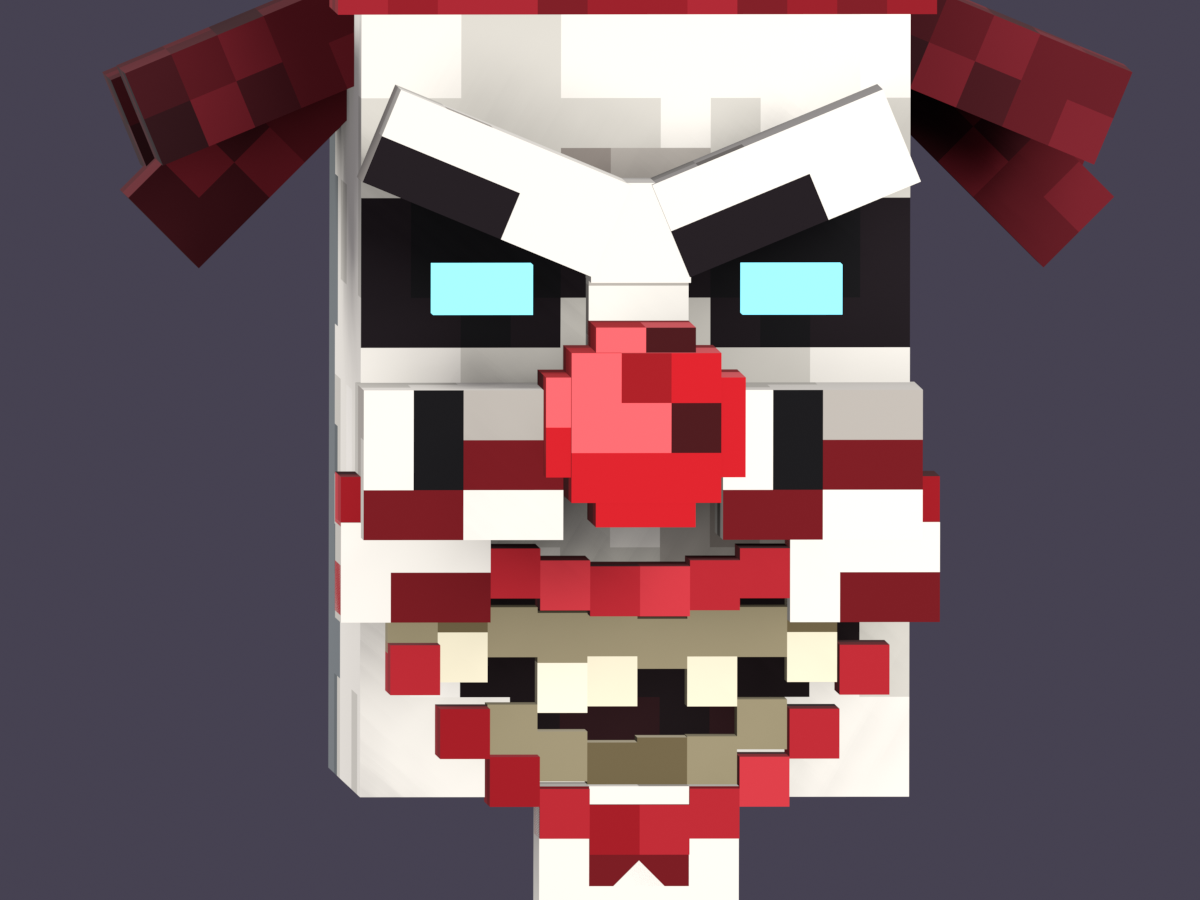
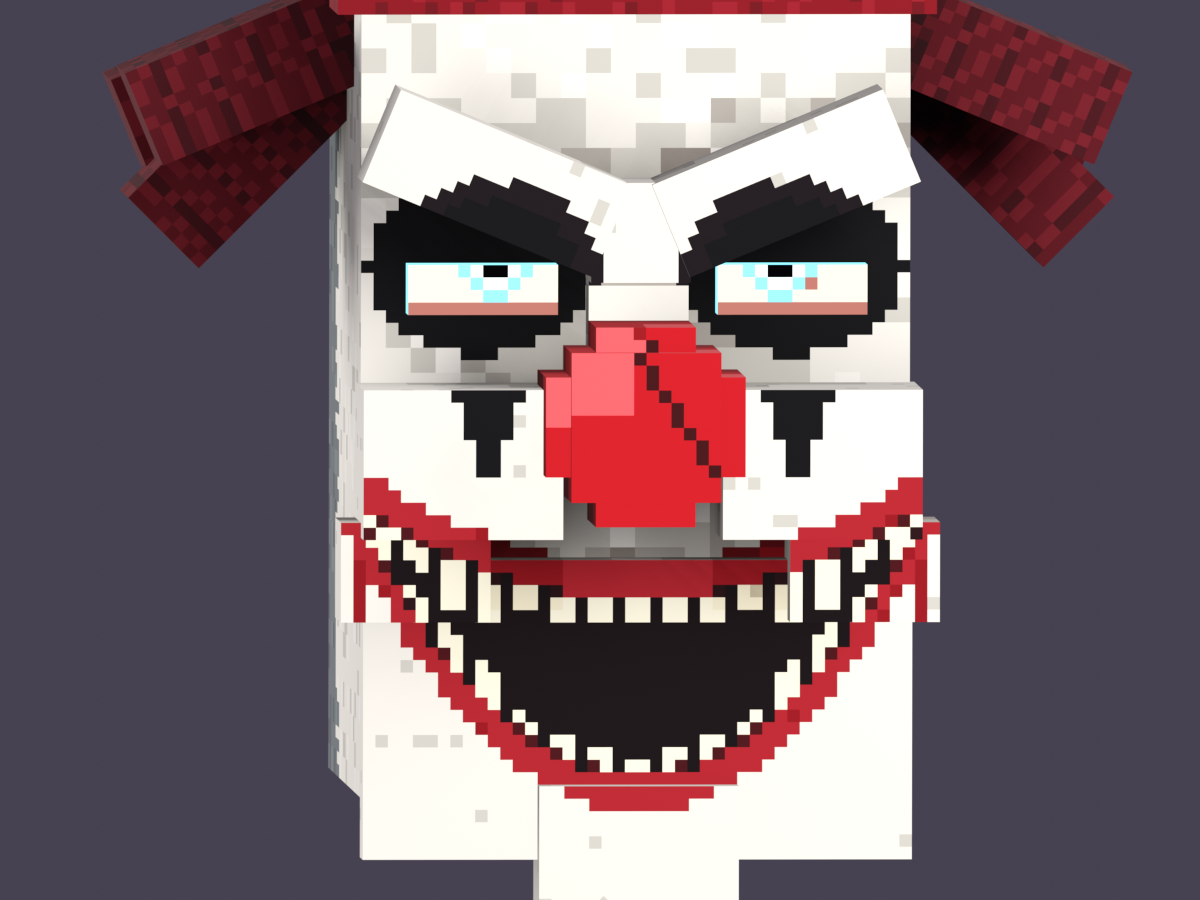
Mirrored Magus clown face take 2: the head textured at 4x resolution, the grin painted smooth (lips, pointed teeth, fangs) on a low muzzle instead of cube lips and teeth, illager eyes (white, cyan iris, dark pupil) full-bright in the black makeup

diff --git a/tools/art/bosses/magus_s5.py b/tools/art/bosses/magus_s5.py
@@ -64,7 +64,8 @@ RAMP = {
     "teeth": mk((110, 98, 70), (234, 226, 198), (252, 250, 236), 7),
     "rednose": mk((70, 6, 12), (196, 24, 36), (255, 140, 140), 7),
     "hair": mk((28, 4, 10), (96, 16, 28), (160, 50, 60), 7),
-    "mouth": [(18, 2, 6), (40, 6, 12)],                                          # the grin's line, the cracks
+    "mouth": [(18, 2, 6), (40, 6, 12)],
+    "sclera": [(180, 120, 110), (232, 226, 210)],                                          # the grin's line, the cracks
     "stain": [(96, 24, 30), (120, 40, 44)],
 }
 ZONE = {"black": ("black", 4), "white": ("white", 4), "crimson": ("crimson", 4), "gold": ("gold", 3),
@@ -76,8 +77,24 @@ GLOWING = s4.GLOWING
 DIAMOND_PARTS = ("coat_", "chest_", "ribs_", "upper_", "fore_", "thigh_", "shin_")
 
 
+def texel_points(cube, face, w, h):
+    """Like volley_crone_s5.texel_points, at the cube's own texel density (session 4: 4 per unit on his head)."""
+    d = s4.density(cube)
+    if d == 1:
+        return v5.texel_points(cube, face, w, h)
+    pts, n, tu, tv = v5.texel_points(cube, face, w // d, h // d)
+    au, su, av, sv = v5.FACE_UV[face]
+    lo, hi = np.array(cube.frm), np.array(cube.to)
+    us, vs = np.meshgrid((np.arange(w) + 0.5) / d, (np.arange(h) + 0.5) / d)
+    full = np.zeros((h, w, 3))
+    full[...] = pts[0, 0]
+    full[..., au] = lo[au] + us if su > 0 else hi[au] - us
+    full[..., av] = lo[av] + vs if sv > 0 else hi[av] - vs
+    return full, n, tu, tv
+
+
 def world_points(cube, face, w, h):
-    pts, n, _, _ = v5.texel_points(cube, face, w, h)
+    pts, n, _, _ = texel_points(cube, face, w, h)
     m = v5.cube_matrix(cube)
     flat = np.c_[pts.reshape(-1, 3), np.ones(w * h)]
     world = (m @ flat.T).T[:, :3].reshape(h, w, 3)
@@ -325,50 +342,82 @@ def near_socket(px, py):
     return best
 
 
+def grin(px, py):
+    """What the painted grin is at a world point (take 2, at the head's resolution): 'lip', 'tooth', 'gum', 'mouth' or
+    None. Thick lips round an open mouth stretched up into his cheeks; pointed teeth in rows along both lips, gaps
+    between them, longer fangs at the corners; the dark mouth behind."""
+    c, half = s2.mouth_curve(px)
+    if abs(px) > 6.3:
+        return None
+    up, low = c + half, c - half
+    if up <= py < up + 0.7 or low - 0.7 < py <= low:
+        return "lip"
+    if not (low < py < up):
+        return None
+    k = round(px / 0.75)
+    tooth_x = abs(px - k * 0.75)                    # 0 at a tooth's middle, 0.375 at the gap
+    fang = abs(abs(k * 0.75) - 3.4) < 0.4
+    reach = (1.5 if fang else 0.85) * (1 - tooth_x / 0.4)          # pointed: longest at the middle
+    if tooth_x < 0.32 and (up - py < reach or py - low < reach * 0.75):
+        return "gum" if (up - py < 0.12 or py - low < 0.12) else "tooth"
+    return "mouth"
+
+
+def near_socket(px, py):
+    """0 outside, else how deep into the dark round an eye (1 at its middle)."""
+    best = 0.0
+    for sx in (-1, 1):
+        r = math.hypot((px - sx * 3.1) / 2.6, (py - (YH + 2.2)) / 2.0)
+        best = max(best, 1 - r)
+    return best
+
+
 def paint_clown_head(lv, over, world, seed):
-    """The head's own front, behind his sculpted face: white greasepaint, black in the deep sockets (smudged at their
-    edges), the dark red-black inside his mouth."""
+    """The head's own front, behind his sculpted face: white greasepaint, black round his eyes."""
     h, w = lv.shape
     for y in range(h):
         for x in range(w):
             px, py, pz = world[y, x]
-            if in_mouth(px, py):
-                over.append((y, x, "mouth", 0 if noise(seed, x, y, 1) > 300 else 1))
-            elif near_socket(px, py) > 0:
-                d = near_socket(px, py)
-                over.append((y, x, "ink", 0 if d > 0.35 else 1))
+            g = grin(px, py)
+            if g:
+                over.append((y, x) + GRIN_PAINT[g])
+            elif near_socket(px, py) > 0.12:
+                over.append((y, x, "ink", 0))
             else:
                 over.append((y, x, "greasepaint", 4))
 
 
+GRIN_PAINT = {"lip": ("lips", 4), "tooth": ("teeth", 4), "gum": ("lips", 1), "mouth": ("mouth", 0)}
+
+
 def paint_face_paint(cube, face, w, h, seed, ctx):
-    """White greasepaint, cracked (craquelure) and greyed in the creases; black diamonds slashing up and down through
-    his eyes; the sockets' black smudged out onto the brow and cheeks; lipstick smeared past his lips; red drips
-    running from the corners of his grin down to his chin."""
+    """White greasepaint, finely cracked; black round his eyes, and a black diamond running down from each; the grin
+    painted across his muzzle and cheeks; a red drip from each corner of it down towards his chin."""
     lv, over = blank(cube, w, h)
     world, normal = ctx["world"], ctx["normal"]
     front = normal[2] < -0.5
     for y in range(h):
         for x in range(w):
-            if noise(seed + 3, x, y, 1) > 955:
-                lv[y, x] -= 2                                          # the cracked greasepaint
             px, py, pz = world[y, x]
+            if noise(seed + 3, x, y, 1) > 975:
+                lv[y, x] -= 1                                          # the greasepaint's fine cracks
             if not front:
+                continue
+            g = grin(px, py)
+            if g:
+                over.append((y, x) + GRIN_PAINT[g])
                 continue
             for sx in (-1, 1):
                 ex, ey = sx * 3.1, YH + 2.2
-                if not cube.name.startswith("brow") and abs(px - ex) / 1.3 + abs(py - (ey - 1.4)) / 3.6 < 1.0                         and py < ey - 1.0:
-                    over.append((y, x, "ink", 0))                      # a black diamond running down from each eye
-            if near_socket(px, py) > 0.08 and not cube.name.startswith("chin"):
-                over.append((y, x, "ink", 1))                          # the sockets' black, smudged onto the brow
-            c, half = s2.mouth_curve(px)
-            if abs(px) < 6.4 and abs(abs(py - c) - half - 1.3) < 0.55:
-                over.append((y, x, "lips", 2))                         # lipstick smeared past the lips
-            for sx in (-1, 1):
-                cx = sx * 4.9
+                if not cube.name.startswith("brow") and abs(px - ex) / 1.0 + abs(py - (ey - 1.6)) / 3.0 < 1.0 \
+                        and py < ey - 0.9:
+                    over.append((y, x, "ink", 0))                      # a black diamond down from each eye
+                cx = sx * 5.6
                 cy, _ = s2.mouth_curve(cx)
-                if abs(px - cx) < 0.5 and cy - 6.5 < py < cy - 0.4:
-                    over.append((y, x, "lips", 2))                     # a drip from each corner of the grin
+                if abs(px - cx) < 0.22 and cy - 5 < py < cy - 0.6:
+                    over.append((y, x, "lips", 3))                     # a drip from each corner of the grin
+            if near_socket(px, py) > 0.12 and not cube.name.startswith("chin"):
+                over.append((y, x, "ink", 0 if near_socket(px, py) > 0.3 else 1))
     return lv, over
 
 
@@ -418,11 +467,36 @@ def paint_hair(cube, face, w, h, seed, ctx):
     return lv, over
 
 
+def paint_eye(cube, face, w, h, seed, ctx):
+    """His eyes (the clown's): an illager's - a pale, bloodshot white, a cyan iris, a dark pupil looking a little
+    inward. Full-bright (the glow bone), so they stare out of the dark round them."""
+    lv = np.full((h, w), 1, int)
+    over = []
+    if not cube.name.startswith("eye_") or face != "north":
+        return lv, over
+    world = ctx["world"]
+    sx = 1 if world[0, 0][0] > 0 else -1
+    cx, cy = sx * 3.1 - sx * 0.25, YH + 2.2
+    for y in range(h):
+        for x in range(w):
+            px, py, pz = world[y, x]
+            r = math.hypot(px - cx, (py - cy) * 1.1)
+            if r < 0.24:
+                over.append((y, x, "ink", 0))                          # the pupil
+            elif r < 0.68:
+                over.append((y, x, "eye_glint", 1 + (r < 0.5)))         # the cyan iris
+            else:
+                edge = abs(py - cy) > 0.62
+                vein = noise(seed, x, y, 1) > 975
+                over.append((y, x, "sclera", 0 if edge or vein else 1))  # the white, bloodshot
+    return lv, over
+
+
 def painter_for(cube):
     return {"black": paint_cloth, "white": paint_cloth, "leg": paint_cloth, "crimson": paint_crimson,
             "gold": paint_gold, "skin": paint_skin, "nose": paint_skin, "porcelain": paint_porcelain,
             "socket": paint_socket, "claw": paint_claw, "crystal": paint_crystal, "crystal_dark": paint_crystal,
-            "string": paint_plain, "eye_glint": paint_plain, "face": paint_face_paint, "lips": paint_lips,
+            "string": paint_plain, "eye_glint": paint_eye, "face": paint_face_paint, "lips": paint_lips,
             "teeth": paint_teeth, "rednose": paint_rednose, "hair": paint_hair}[s4.zone_for(cube)]
 
 
@@ -433,7 +507,9 @@ def paint_face(model, i, face, w, h, solids):
     world, normal = world_points(cube, face, w, h)
     lv, over = painter_for(cube)(cube, face, w, h, seed, {"world": world, "normal": normal})
     if not zone.startswith(GLOWING) and zone != "porcelain":         # the mask stays clean (no shading blotches)
-        ao = b5.occlusion(model, i, face, w, h, solids)
+        d = s4.density(cube)
+        ao = b5.occlusion(model, i, face, w // d, h // d, solids)
+        ao = np.kron(ao, np.ones((d, d)))
         lv = lv - (ao >= 0.3) - (ao >= 0.55)
     out = c5.from_levels(lv, RAMP[ZONE[zone][0]], None)
     for y, x, rname, shade in over:

diff --git a/tools/art/bosses/magus_s2.py b/tools/art/bosses/magus_s2.py
@@ -229,20 +229,9 @@ def mask_clown(head):
     head.box("nose", (0, YH - 0.4, ZF - 2.4), (3.4, 3.4, 3.4), "rednose")
     head.box("nose_round_x", (0, YH - 0.4, ZF - 2.2), (4.4, 2.4, 2.6), "rednose")
     head.box("nose_round_y", (0, YH - 0.4, ZF - 2.2), (2.4, 4.4, 2.6), "rednose")
-    # the lips, cube by cube along the grin; teeth hanging from the upper lip and rising from the lower, recessed
-    # behind the lips' front; fangs at the corners
-    for i in range(12):
-        x = -5.5 + i
-        c, half = mouth_curve(x)
-        head.box(f"lip_upper_{i}", (x, c + half + 0.6, ZF - 0.8), (1.2, 1.4, 1.6), "lips")
-        head.box(f"lip_lower_{i}", (x, c - half - 0.6, ZF - 0.8), (1.2, 1.4, 1.6), "lips")
-        if half > 0.5:
-            fang = abs(abs(x) - 3.5) < 0.6
-            up = min(2 * half - 0.4, (2.4 if fang else 1.0 + (i * 7 % 5) * 0.25))
-            head.box(f"tooth_upper_{i}", (x, c + half - up / 2, ZF - 0.4), (0.8, up, 0.8), "teeth")
-            low = min(2 * half - up - 0.2, 0.8 + (i * 3 % 4) * 0.2)
-            if low > 0.3:
-                head.box(f"tooth_lower_{i}", (x, c - half + low / 2, ZF - 0.4), (0.8, low, 0.8), "teeth")
+    # the grin is painted (take 2: the lips built cube by cube and the cube teeth looked blocky and busy): a low muzzle
+    # under the nose carries it, the cheeks its curling corners
+    head.box("muzzle", (0, YH - 6.2, ZF - 0.5), (11, 6, 1), "face")
     head.box("chin", (0, YH - 9.2, ZF - 0.6), (4, 3, 2), "face")
     head.box("chin_point", (0, YH - 10.6, ZF - 0.6), (2.4, 2.4, 1.6), "face", rotation=(0, 0, 45))
     # wild tufts of hair sticking out from under the hat
@@ -261,8 +250,10 @@ def head_parts(head):
     eyes = head.group("glow_eyes", (0, YH + 2.2, ZF - 1))
     deep = MASK == "clown"                                 # the clown's sockets are deep: the glint sits far back
     for sx in (-1, 1):                                     # a cold glint deep in each socket
-        eyes.box(f"glint_{sx}", (sx * 3.1, YH + 2.2, ZF - (0.3 if deep else 1.3)), (1.6 if deep else 1, 1, 0.4),
-                 "eye_glint")
+        if deep:                                           # an illager's eye: white, a cyan iris, a dark pupil (painted)
+            eyes.box(f"eye_{sx}", (sx * 3.1, YH + 2.2, ZF - 0.3), (2.6, 1.4, 0.4), "eye_glint")
+        else:
+            eyes.box(f"glint_{sx}", (sx * 3.1, YH + 2.2, ZF - 1.3), (1, 1, 0.4), "eye_glint")
     # the hat: band and cap on the head, three floppy points of three bones each (they flop)
     top = YH + 8
     head.box("hat_band", (0, top + 1.2, 0), (12, 3, 12), "crimson")

diff --git a/tools/art/bosses/magus_s4.py b/tools/art/bosses/magus_s4.py
@@ -64,6 +64,14 @@ NEIGHBOURS = [("black", "white"), ("black", "crimson"), ("white", "crimson"), ("
               ("face", "rednose"), ("teeth", "lips"), ("face", "hair"), ("face", "skin")]
 
 
+HEAD_DENSITY = 4          # texels per model unit on his head and face (the user: a higher resolution there)
+
+
+def density(cube):
+    """Texels per model unit: 4 on his head, his face and his eyes (64 per block), 1 everywhere else (vanilla's 16)."""
+    return HEAD_DENSITY if cube.group.name in ("hi_head", "glow_eyes") else 1
+
+
 def zone_for(cube):
     return cube.mat
 
@@ -71,7 +79,7 @@ def zone_for(cube):
 def twin(name):
     """A left part's right twin: arms, fingers and the hat are built mirrored by name. His legs are split black and
     white by side (session 5), so they keep their own texture."""
-    if name.startswith(("thigh_", "shin_")):
+    if name.startswith(("thigh_", "shin_", "eye_")):            # the eyes each look a little inward
         return name
     return name.replace("_left", "_right").replace("_-1", "_1")
 
@@ -84,6 +92,7 @@ def island_keys(model):
             w, h = v4.face_size(c, f)
             if not w or not h or b4.hidden(c, f):
                 continue
+            w, h = w * density(c), h * density(c)
             t = twin(c.name)
             if t != c.name and t in names and v4.face_size(names[t], f) == (w, h) and zone_for(names[t]) == zone_for(c):
                 keys[(i, f)] = (t, f, w, h, zone_for(c))
